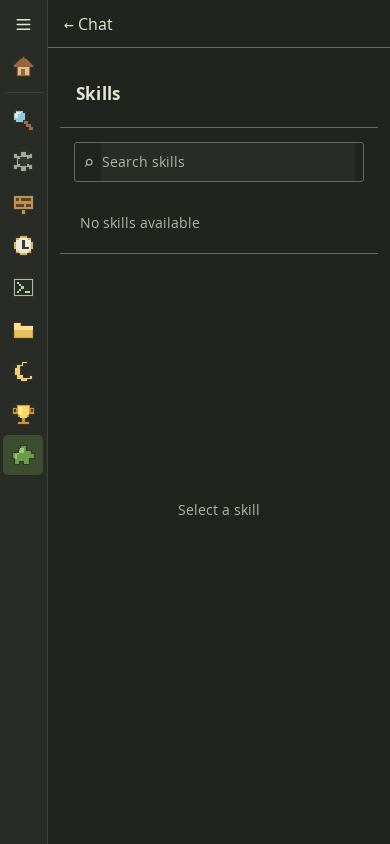
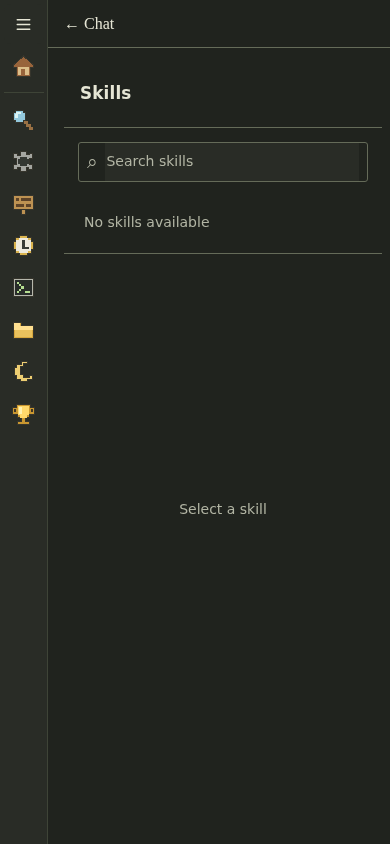
Fix mobile tab gutters and preserve existing rail entries

diff --git a/dashboard/src/mobile-tab-shell.css b/dashboard/src/mobile-tab-shell.css
@@ -1,8 +1,8 @@
 .workbench-mobile-tab-header { display: none; }
 @media (max-width: 800px) {
-  :root[data-mobile-tab="true"] { --workbench-tab-header: calc(48px + env(safe-area-inset-top, 0px)); }
-  :root[data-mobile-tab="true"] .workbench-mobile-tab-header {
-    position: fixed; inset: 0 0 auto var(--dashboard-action-width, 48px); z-index: 84;
+  :root[data-workbench-shell="true"][data-mobile-tab="true"] { --workbench-tab-header: calc(48px + env(safe-area-inset-top, 0px)); }
+  :root[data-workbench-shell="true"][data-mobile-tab="true"] .workbench-mobile-tab-header {
+    position: fixed; inset: 0 0 auto var(--dashboard-action-width, 48px); z-index: 81;
     height: var(--workbench-tab-header); box-sizing: border-box;
     display: flex; align-items: center; padding: env(safe-area-inset-top, 0px) max(8px, env(safe-area-inset-right, 0px)) 0 8px;
     background: var(--dashboard-page-surface); color: var(--dashboard-ink);
@@ -10,33 +10,37 @@
   }
   .workbench-mobile-tab-chat { display: inline-flex; align-items: center; min-height: 44px; min-width: 44px; padding: 0 8px; color: inherit; text-decoration: none; }
   .workbench-mobile-tab-chat:focus-visible { outline: 2px solid var(--dashboard-accent); outline-offset: -2px; }
-  :root[data-mobile-tab="true"] :is(.dashboard-accessory-close, .dashboard-accessory-backdrop) { display: none !important; }
-  :root[data-mobile-tab="true"] :is(.dashboard-owned-page, #app-sidebar + div) {
-    position: fixed !important; inset: var(--workbench-tab-header) 0 0 var(--dashboard-action-width, 48px) !important;
+  :root[data-workbench-shell="true"][data-mobile-tab="true"] :is(.dashboard-accessory-close, .dashboard-accessory-backdrop) { display: none !important; }
+  /* Outrank the legacy accessory rules, including their sidebar ID and !important padding. */
+  :root[data-workbench-shell="true"][data-mobile-tab="true"] :is(.workbench-mobile-tab-content, #app-sidebar ~ .workbench-mobile-tab-content) {
+    position: fixed !important; z-index: 82; inset: var(--workbench-tab-header) 0 0 calc(var(--dashboard-action-width, 48px) + 8px) !important;
     width: auto !important; height: auto !important; min-width: 0 !important; min-height: 0 !important; max-width: none !important;
-    margin: 0 !important; box-sizing: border-box; border-radius: 0; box-shadow: none;
-    padding-bottom: env(safe-area-inset-bottom, 0px); overflow: auto;
+    margin: 0 !important; box-sizing: border-box; border: 0 !important; border-radius: 0; box-shadow: none;
+    padding: 12px 8px max(12px, env(safe-area-inset-bottom, 0px)) !important; overflow: auto;
   }
-  :root[data-mobile-tab="true"] .dashboard-owned-page { padding: 12px; }
-  :root[data-mobile-tab="true"][data-workbench-view="/cron"] .dashboard-owned-page { overflow: hidden; }
-  :root[data-mobile-tab="true"] .dashboard-action-rail { display: flex !important; }
-  :root[data-mobile-tab="true"] .dashboard-settings-nav { top: var(--workbench-tab-header) !important; }
-  :root[data-mobile-tab="true"][data-mobile-settings="list"] .dashboard-settings-nav { padding-top: 12px; }
-  :root[data-mobile-tab="true"] .workbench-mobile-settings-header {
+  :root[data-workbench-shell="true"][data-mobile-tab="true"][data-workbench-view="/cron"] .dashboard-owned-page { overflow: hidden; }
+  :root[data-workbench-shell="true"][data-mobile-tab="true"] .dashboard-action-rail { display: flex !important; }
+  :root[data-workbench-shell="true"][data-mobile-tab="true"] .dashboard-settings-nav { top: var(--workbench-tab-header) !important; left: calc(var(--dashboard-action-width, 48px) + 8px) !important; }
+  :root[data-workbench-shell="true"][data-mobile-tab="true"][data-mobile-settings="list"] .dashboard-settings-nav { padding-top: 12px; }
+  :root[data-workbench-shell="true"][data-mobile-tab="true"] .workbench-mobile-settings-header {
     left: var(--dashboard-action-width, 48px); top: var(--workbench-tab-header); min-height: 48px; padding-top: 0; gap: 8px;
   }
-  :root[data-mobile-tab="true"][data-mobile-settings="list"] .workbench-mobile-settings-header { display: none; }
-  :root[data-mobile-tab="true"][data-mobile-settings="detail"] #app-sidebar + .workbench-mobile-settings-panel,
-  :root[data-mobile-tab="true"][data-mobile-settings="detail"] .workbench-mobile-settings-panel {
-    inset: calc(var(--workbench-tab-header) + 48px) 0 0 var(--dashboard-action-width, 48px) !important;
+  :root[data-workbench-shell="true"][data-mobile-tab="true"][data-mobile-settings="list"] .workbench-mobile-settings-header { display: none; }
+  :root[data-workbench-shell="true"][data-mobile-tab="true"][data-mobile-settings="detail"] :is(.workbench-mobile-settings-panel, #app-sidebar ~ .workbench-mobile-settings-panel) {
+    z-index: 90;
+    inset: calc(var(--workbench-tab-header) + 48px) 0 0 calc(var(--dashboard-action-width, 48px) + 8px) !important;
     width: auto !important; height: auto !important;
     padding: 12px 16px max(20px, env(safe-area-inset-bottom)) !important;
   }
 }
 @media (max-width: 800px) {
-  :root[data-mobile-tab="true"] .dashboard-cron-page-header {
+  :root[data-workbench-shell="true"][data-mobile-tab="true"] .dashboard-cron-page-header {
     display: grid; grid-template-columns: minmax(0, 1fr) auto; gap: 12px;
   }
-  :root[data-mobile-tab="true"] .dashboard-cron-page-header > div { grid-column: 1 / -1; }
-  :root[data-mobile-tab="true"] .dashboard-cron-page-header select { min-width: 0; max-width: 100%; min-height: 44px; }
+  :root[data-workbench-shell="true"][data-mobile-tab="true"] .dashboard-cron-page-header > div { grid-column: 1 / -1; }
+  :root[data-workbench-shell="true"][data-mobile-tab="true"] .dashboard-cron-page-header select { min-width: 0; max-width: 100%; min-height: 44px; }
+}
+
+@media (max-width: 800px) {
+  :root[data-workbench-shell="true"][data-mobile-tab="true"][data-mobile-settings="list"] .workbench-mobile-tab-content { display: none !important; }
 }

diff --git a/dashboard/src/mobile-tab-shell.ts b/dashboard/src/mobile-tab-shell.ts
@@ -1,6 +1,7 @@
 import { uiText } from './ui-locale';
 import { isMobileTabRoute, readMobileChat, rememberMobileChat } from './mobile-tab-route';
 import './mobile-tab-shell.css';
+import { findTabContent } from './tab-content';
 
 /** A page header, not a modal: keep host forms, scroll containers and dialogs mounted. */
 export function installMobileTabShell(): void {
@@ -12,6 +13,7 @@ export function installMobileTabShell(): void {
   chat.className = 'workbench-mobile-tab-chat';
   header.append(chat);
   let frame = 0;
+  let content: HTMLElement | null = null;
   const remember = () => {
     try { rememberMobileChat(location.pathname + location.search + location.hash, sessionStorage); } catch { /* optional */ }
   };
@@ -23,6 +25,12 @@ export function installMobileTabShell(): void {
     remember();
     const active = media.matches && root.dataset.workbenchShell === 'true' && isMobileTabRoute(location.href);
     if (root.dataset.mobileTab !== String(active)) root.dataset.mobileTab = String(active);
+    const next = active ? findTabContent() : null;
+    if (next !== content) {
+      content?.classList.remove('workbench-mobile-tab-content');
+      content = next;
+      content?.classList.add('workbench-mobile-tab-content');
+    }
     if (!active) { header.remove(); return; }
     if (!header.isConnected) document.body.append(header);
     chat.href = destination();

diff --git a/dashboard/src/recovered-runtime.js b/dashboard/src/recovered-runtime.js
@@ -2934,8 +2934,6 @@ import { createProjectNavigation, PANE_DRAG_TYPE } from './project-navigation';
               l("button", { type: "button", className: "dashboard-workspace-button", "aria-label": runtimeText("文件", "Files"), "aria-current": mobile && u.path === "/files" ? "page" : undefined, onClick: () => { f(false); if (mobile) Kp("/files", u.profile); else if (u.path === "/chat" && !u.terminal) window.dispatchEvent(new Event("workbench:open-workspace")); else Kp("/chat?workbench=files", u.profile); } }, craftingIcon(t, "files"), l("span", null, runtimeText("文件", "Files"))),
               l("button", { type: "button", className: "dashboard-workspace-button workbench-theme-action", "aria-label": B, title: B, "aria-pressed": v === "dark", disabled: y, onClick: N }, craftingIcon(t, v === "dark" ? "sun" : "moon"), l("span", null, runtimeText("主题", "Theme"))),
               k("/achievements", runtimeText("成就", "Achievements"), "achievements", u.path === "/achievements", undefined, true),
-              mobile ? k("/skills", runtimeText("技能", "Skills"), "skills", u.path === "/skills") : null,
-              mobile ? O.filter(z => !["/achievements", "/cron", "/skills", "/files", "/kanban"].includes(z.path)).map(z => k(z.href, z.label, "plugins", u.path === z.path)) : null,
             ),
           );
       return l(

diff --git a/tests/tab-content.test.ts b/tests/tab-content.test.ts
@@ -1,0 +1,23 @@
+// @vitest-environment happy-dom
+import { afterEach, describe, expect, it } from 'vitest';
+import { findTabContent } from '../dashboard/src/tab-content';
+
+afterEach(() => { document.body.innerHTML = ''; });
+describe('mobile route canvas discovery', () => {
+  it.each([
+    '<div id="canvas" class="relative z-2"><div>Routed page</div></div>',
+    '<span hidden></span><section id="canvas"><main>Routed page</main></section>',
+    '<main id="canvas">Routed page</main>',
+  ])('finds the host canvas without depending on an adjacent div: %s', html => {
+    document.body.innerHTML = `<div><aside id="app-sidebar"></aside>${html}</div>`;
+    expect(findTabContent()?.id).toBe('canvas');
+  });
+  it('prefers a Workbench-owned route over the retained host canvas', () => {
+    document.body.innerHTML = '<main>Hidden host</main><section id="owned" class="dashboard-owned-page"></section>';
+    expect(findTabContent()?.id).toBe('owned');
+  });
+  it('does not use the sidebar or an unrelated overlay as a canvas', () => {
+    document.body.innerHTML = '<aside id="app-sidebar"></aside><div role="dialog"></div>';
+    expect(findTabContent()).toBeNull();
+  });
+});

diff --git a/dashboard/src/mobile-settings.ts b/dashboard/src/mobile-settings.ts
@@ -1,5 +1,6 @@
 import { uiText } from './ui-locale';
 import './mobile-settings.css';
+import { findTabContent } from './tab-content';
 
 /** Keep host-owned forms mounted; only their mobile presentation changes. */
 export function installMobileSettings(): void {
@@ -29,7 +30,7 @@ export function installMobileSettings(): void {
     const show = active && opened;
     const mode = active ? (show ? 'detail' : 'list') : '';
     if (root.dataset.mobileSettings !== mode) root.dataset.mobileSettings = mode;
-    const next = show ? document.querySelector<HTMLElement>('.dashboard-owned-page') || document.querySelector<HTMLElement>('#app-sidebar + div') : null;
+    const next = show ? findTabContent() : null;
     if (panel !== next) {
       if (panel) { panel.classList.remove('workbench-mobile-settings-panel'); panel.removeAttribute('role'); panel.removeAttribute('aria-modal'); panel.removeAttribute('aria-labelledby'); panel.removeAttribute('aria-owns'); }
       panel = next;

diff --git a/dashboard/src/tab-content.ts b/dashboard/src/tab-content.ts
@@ -1,0 +1,16 @@
+/** Resolve the routed canvas, independently of its tag or adjacent plugin slots. */
+export function findTabContent(root: Document = document): HTMLElement | null {
+  const owned = root.querySelector<HTMLElement>('.dashboard-owned-page');
+  if (owned) return owned;
+  const sidebar = root.getElementById('app-sidebar');
+  // Hermes App renders its route canvas beside the sidebar (relative z-2).
+  // Older hosts wrap the route in main; plugin slots may sit between siblings.
+  const siblings = sidebar?.parentElement?.children;
+  if (siblings) {
+    for (const sibling of Array.from(siblings)) {
+      if (sibling === sidebar || !(sibling instanceof HTMLElement)) continue;
+      if (sibling.matches('main, [role="main"], .relative.z-2') || sibling.querySelector('main, [role="main"], header[role="banner"]')) return sibling;
+    }
+  }
+  return root.querySelector<HTMLElement>('main, [role="main"]');
+}

diff --git a/assets/mobile-tab-shell/README.md b/assets/mobile-tab-shell/README.md
@@ -1,0 +1,24 @@
+# Mobile tab shell evidence
+
+Captured by `WORKBENCH_SCREENSHOT_DIR=assets/mobile-tab-shell pnpm test:browser:mobile-tabs`
+using the built dashboard bundle and the deterministic local mock host.
+
+All current `*-light.png` and `*-dark.png` images use a 390×844 viewport.
+`before-*.png` are historical captures from the earlier PR iteration.
+
+- Rail bounds: left 0px, right 48px.
+- Page and settings-list container: left 56px, width 334px.
+- Page content has additional inner padding; tests assert visible headings,
+  forms, input controls and lists also start at or beyond rail right + 8px.
+- Settings details (native and Workbench-owned): top 96px, below both headers.
+- Skills and sample-plugin images exercise direct URLs only. Neither has a rail entry.
+- Achievements, files, kanban and the sample plugin use labelled native host
+  fixtures, not live business data. Achievements uses a section canvas; files
+  inserts a plugin slot before the canvas. These catch adjacent-div assumptions.
+- The suite also resizes each primary route through 800px, 801px and 1440px,
+  checks mobile class/header teardown, and verifies the desktop accessory close
+  control. It checks exact existing rail links, scrolling, return-chat history,
+  cron editing, and temporary preview dismissal.
+
+Custom settings screenshots cover display, models, shortcuts and versions in
+both themes. The native settings form is `config-detail-*`; the menu is `config-*`.
